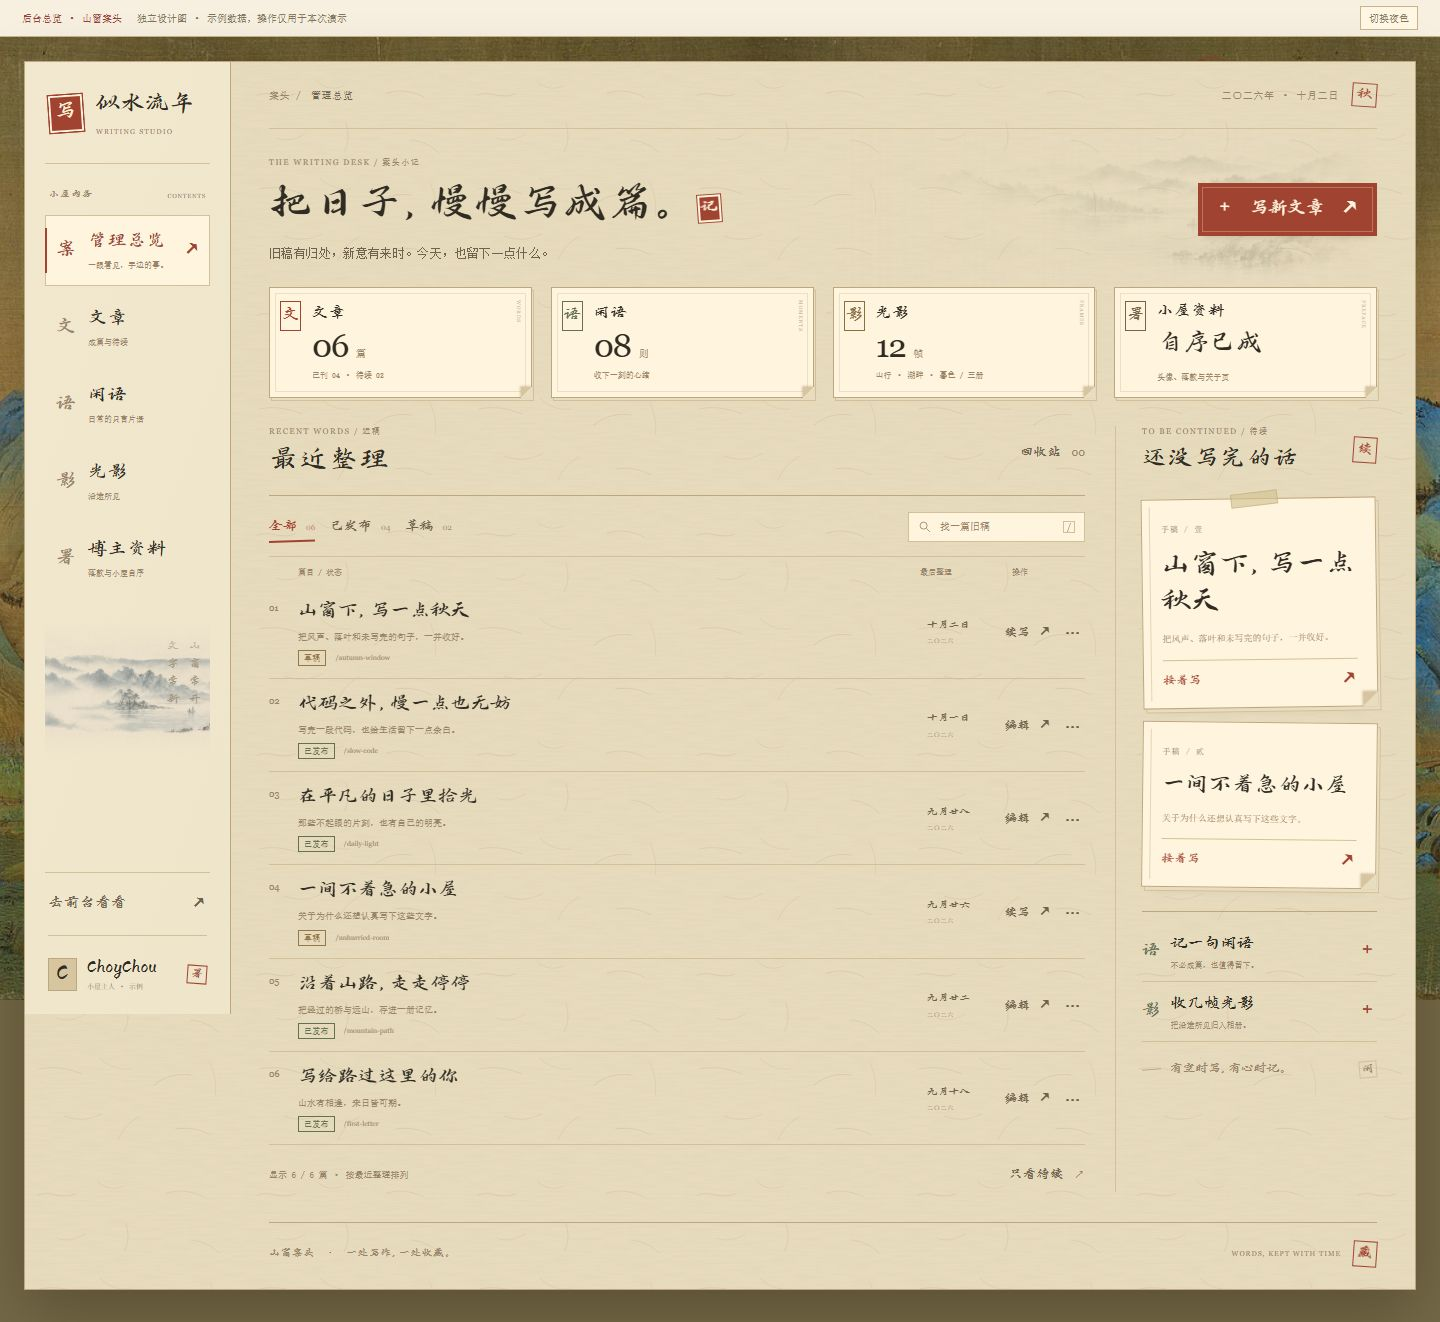
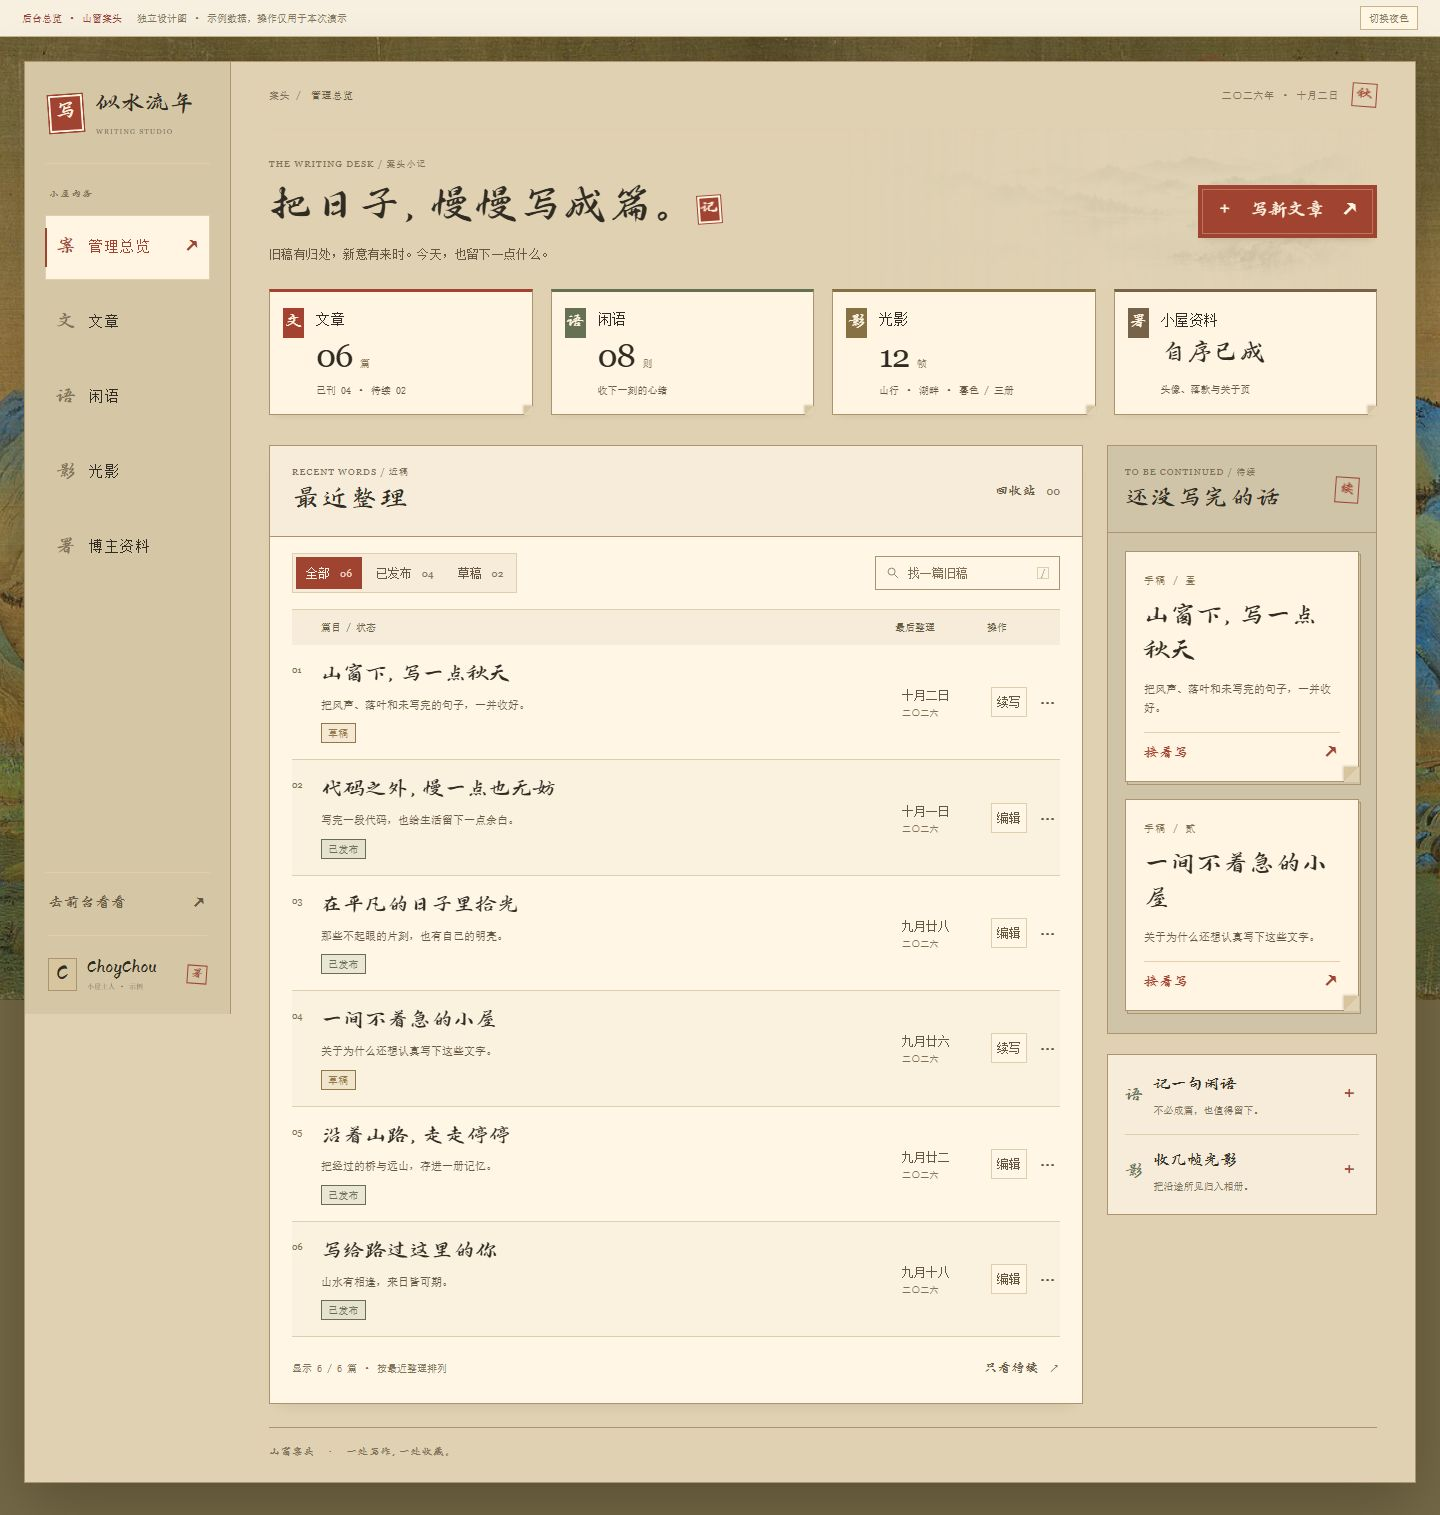
design(admin): clarify overview groups and paper hierarchy

diff --git a/effect-preview/admin-desk-overview-v1.css b/effect-preview/admin-desk-overview-v1.css
@@ -24,3 +24,131 @@ dialog {width:calc(100% - 36px);max-width:650px;max-height:calc(100dvh - 40px);o
 @media(max-width:375px) {.welcome h1 {font-size:31px;}.welcome h1 .seal {margin-left:4px;}.metric-name {font-size:14px;}.metric-number {font-size:27px;}.profile-status {font-size:21px;}.metric p {font-size:6px;}.post {grid-template-columns:14px minmax(0,1fr) 56px;gap:7px;}.post-title {font-size:20px;}.post-slug {max-width:105px;}.post time {font-size:10px;}.draft-note h3,.second-note h3 {font-size:22px;}.quick-notes span {font-size:15px;}}
 @media(prefers-reduced-motion:reduce) {html {scroll-behavior:auto;}*,*::before,*::after {transition:none!important;animation:none!important;}.metric:hover,.metric:focus-visible,.primary:hover,.draft-note:hover,.draft-note:focus-visible {transform:none;}.metric:hover .metric-number,.draft-note:hover .note-action b {transform:none;}}
 @media(max-width:620px) {.welcome-title-tail {display:block;}}
+
+/* 第二轮：以纸面、留白和统一对齐建立区域层级。 */
+:root {--paper:#dfd1b2;--side:#d5c6a5;--card:#fff5e2;--soft:#665740;--faint:#817054;--fine:#dfcfaf;--line:#ad9470;--panel:#fff6e6;--well:#cfc3a8;--row-fill:#f6ecd9;}
+:root[data-theme=dark] {--paper:#302b22;--side:#25251e;--card:#554a37;--soft:#d2c2a5;--faint:#baa585;--fine:#66583f;--line:#897453;--panel:#433b2e;--well:#24291f;--row-fill:#3d3529;}
+.studio {background:var(--paper);}
+.sidebar {background:var(--side);border-right:1px solid var(--line);}
+.sidebar nav {gap:10px;}
+.sidebar nav span {font:15px/1.5 var(--song);letter-spacing:.04em;}
+.sidebar nav small {display:none;}
+.sidebar-caption span,.sidebar-landscape,.metric-mark,.metric::before,.post-slug,.desk-quote {display:none;}
+.sidebar nav a,.sidebar nav button {min-height:65px;}
+.welcome {min-height:160px;}
+.welcome-wash {opacity:.1;}
+.eyebrow {font-size:9px;letter-spacing:.12em;}
+.metrics {gap:18px;margin-bottom:30px;}
+.metric {min-height:125px;padding:17px 16px 15px 46px;border-color:var(--line);border-top:3px solid var(--accent);box-shadow:0 4px 9px -7px var(--shadow);}
+.metric-tab {left:13px;top:16px;background:var(--accent);color:var(--card);}
+.metric-name {font:14px/1.5 var(--song);letter-spacing:.04em;}
+.metric-number {margin:7px 0 8px;}
+.metric p {font-size:10px;color:var(--soft);}
+.metric-fold {width:9px;height:9px;}
+.work-area {grid-template-columns:minmax(0,1fr) 270px;gap:24px;align-items:start;}
+.archive {background:var(--panel);border:1px solid var(--line);padding:0 22px 17px;box-shadow:0 8px 15px -12px var(--shadow);}
+.archive>.section-head {margin:0 -22px;padding:19px 22px 17px;background:var(--row-fill);border-bottom:1px solid var(--line);}
+.section-head h2 {font-size:28px;}
+.filter-line {gap:12px;padding:16px 0;flex-wrap:wrap;}
+.filters {gap:4px;padding:3px;border:1px solid var(--fine);background:var(--row-fill);}
+.filters button {padding:7px 10px;font:12px/1.4 var(--song);min-height:32px;}
+.filters button::after {display:none;}
+.filters [aria-pressed=true] {color:var(--card);background:var(--seal);}
+.filters span {font-size:10px;opacity:.8;}
+.search {width:185px;padding:9px 10px;border-color:var(--line);background:var(--panel);}
+.search input {font-size:12px;}
+.list-caption {padding:12px 0;background:var(--row-fill);font-size:10px;color:var(--soft);}
+.post {padding:16px 0;}
+.post:nth-child(even) {background:color-mix(in srgb,var(--row-fill) 55%,transparent);}
+.post::before {inset:0;}
+.post-title {font-size:22px;}
+.post-copy>p {font-size:11px;color:var(--soft);margin:6px 0 8px;}
+.status {font-size:10px;padding:4px 6px;}
+.draft {background:color-mix(in srgb,#ae8a54 12%,transparent);}
+.published {background:color-mix(in srgb,var(--pine) 12%,transparent);}
+.post time {font:12px/1.5 var(--song);}
+.post time small {font-size:9px;letter-spacing:.02em;}
+.edit-post {font:12px var(--song);padding:7px 5px;border:1px solid var(--fine);background:var(--panel);}
+.edit-post:hover {border-color:var(--seal);}
+.edit-post span {display:none;}
+.list-foot {padding-top:14px;font-size:10px;}
+.desk-margin {padding:0;border:0;}
+.drafts {border:1px solid var(--line);background:var(--well);padding:0 17px 5px;}
+.drafts .section-head {border-bottom:1px solid var(--line);margin:0 -17px 18px;padding:19px 17px 17px;}
+.drafts h2 {font-size:25px;}
+.draft-note,.second-note {transform:none;margin:0 0 17px;min-height:165px;padding:18px 18px 15px;box-shadow:2px 3px 0 -1px var(--well),2px 3px 0 var(--line);}
+.draft-note h3,.second-note h3 {font-size:26px;line-height:1.35;}
+.draft-note p {font-size:11px;color:var(--soft);}
+.draft-note small {font-size:10px;}
+.draft-note::before,.note-tape {display:none;}
+.note-action {font-size:15px;}
+.quick-notes {margin-top:20px;padding:4px 17px;border:1px solid var(--line);background:var(--row-fill);}
+.quick-notes button {padding:15px 0;}
+.quick-notes button:last-child {border-bottom:0;}
+.quick-notes small {font-size:10px;line-height:1.7;}
+.desk-footer {margin-top:23px;}
+.desk-footer>span:last-child {display:none;}
+@media(max-width:1200px) {
+  main {padding-inline:24px;}
+  .work-area {grid-template-columns:minmax(0,1fr) 238px;gap:19px;}
+  .archive {padding-inline:17px;}
+  .archive>.section-head {margin-inline:-17px;padding-inline:17px;}
+  .search {width:100%;}
+  .post-title {font-size:21px;}
+  .metric {padding-left:40px;}
+  .metric-tab {left:10px;}
+  .metric p {font-size:9px;}
+}
+@media(max-width:1000px) {.sidebar nav a,.sidebar nav button {min-height:57px;}}
+@media(max-width:820px) {
+  .work-area {grid-template-columns:minmax(0,1fr);gap:24px;}
+  .desk-margin {display:block;}
+  .drafts {padding-bottom:5px;}
+  #draft-cards {gap:19px;}
+  .quick-notes {display:grid;grid-template-columns:1fr 1fr;gap:22px;}
+  .quick-notes button {border-bottom:0;}
+  .search {width:185px;}
+}
+@media(max-width:620px) {
+  main {padding-inline:16px;}
+  .sidebar {background:var(--side);}
+  .sidebar nav {gap:4px;}
+  .sidebar nav a,.sidebar nav button {min-height:52px;}
+  .sidebar nav span {font:12px var(--song);letter-spacing:0;}
+  .welcome {min-height:0;}
+  .metrics {gap:12px;margin-bottom:24px;}
+  .metric {min-height:125px;padding:13px 9px 12px 36px;}
+  .metric-tab {left:8px;top:13px;}
+  .metric-name {font-size:12px;}
+  .metric p {font-size:9px;line-height:1.7;}
+  .profile-status {font-size:22px;}
+  .archive {padding:0 13px 14px;}
+  .archive>.section-head {margin:0 -13px;padding:16px 13px;}
+  .eyebrow {font-size:8px;}
+  .section-head h2 {font-size:26px;}
+  .filter-line {gap:12px;}
+  .filters {width:100%;justify-content:space-between;}
+  .filters button {flex:1;padding-inline:7px;font-size:12px;}
+  .search {width:100%;}
+  .post {grid-template-columns:13px minmax(0,1fr) 55px;gap:6px;padding:17px 0;}
+  .post-title {font-size:21px;}
+  .post-copy>p {font-size:10px;}
+  .post time {font-size:10px;}
+  .post time small {font-size:8px;}
+  .post-ops {gap:1px;}
+  .edit-post {font-size:10px;padding:5px 3px;}
+  .post summary {width:18px;}
+  .status {font-size:9px;}
+  .list-foot {font-size:9px;gap:5px;}
+  .list-foot .text-button {font-size:11px;}
+  .drafts {padding-inline:13px;}
+  .drafts .section-head {margin-inline:-13px;padding:16px 13px;}
+  #draft-cards {gap:12px;}
+  .draft-note,.second-note {padding:13px 10px;min-height:200px;}
+  .draft-note h3,.second-note h3 {font-size:22px;}
+  .draft-note p {font-size:10px;}
+  .draft-note small {font-size:9px;}
+  .quick-notes {padding-inline:13px;gap:12px;}
+  .quick-notes span {font-size:15px;}
+  .quick-notes small {font-size:9px;}
+}

diff --git a/effect-preview/admin-desk-overview-v1.md b/effect-preview/admin-desk-overview-v1.md
@@ -6,7 +6,9 @@
 
 ## 设计方向
 
-沿用现有博客的青绿山水、米色宣纸、手写标题与朱印。山水退到边缘，管理内容落在整张纸面上；概览卡和待续手稿采用较亮的纸张，细边线、纸张叠层和折角共同加强区域区分。
+沿用现有博客的青绿山水、米色宣纸、手写标题与朱印。山水退到边缘，管理内容落在整张纸面上。总览底纸、浅色文章纸面、较深的待续底板形成三个明确层级，概览卡用边线与色签区分。
+
+第二轮根据“元素乱、区分度不足”的反馈调整：淡化整页纹理，文章列表增加独立边框、标题栏和隔行底色；待续手稿与快捷入口分别成组；筛选改成清楚的选中色块；统一卡片边距与对齐，放大辅助文字，隐藏 slug 的视觉展示（仍可搜索），减少竖排英文、胶带、旁注等装饰。
 
 - 左侧目录：管理总览、文章、闲语、光影、博主资料，对应现有四个管理模块及新增总览入口。
 - 顶部：中文日期、新文章按钮和四张紧凑的内容概览卡。
@@ -21,7 +23,7 @@
 | 元素 | 演示行为 |
 | --- | --- |
 | 概览卡 | 题签显色、轻微上移、折角变大；文章卡返回全部篇目 |
-| 待续手稿 | 悬停轻抬并摆正，折角和箭头响应；点击打开手稿弹窗 |
+| 待续手稿 | 平时整齐对齐，悬停轻抬，折角和箭头响应；点击打开手稿弹窗 |
 | 文章列表 | 淡墨随鼠标位置移动；支持按发布状态筛选、搜索标题/摘要/slug |
 | 新文章与续写 | 演示编辑篇名、小序、正文；保存后同步列表、计数和待续卡 |
 | 回收站 | 演示移入、撤销、恢复；恢复为草稿，与现有后台行为一致 |
